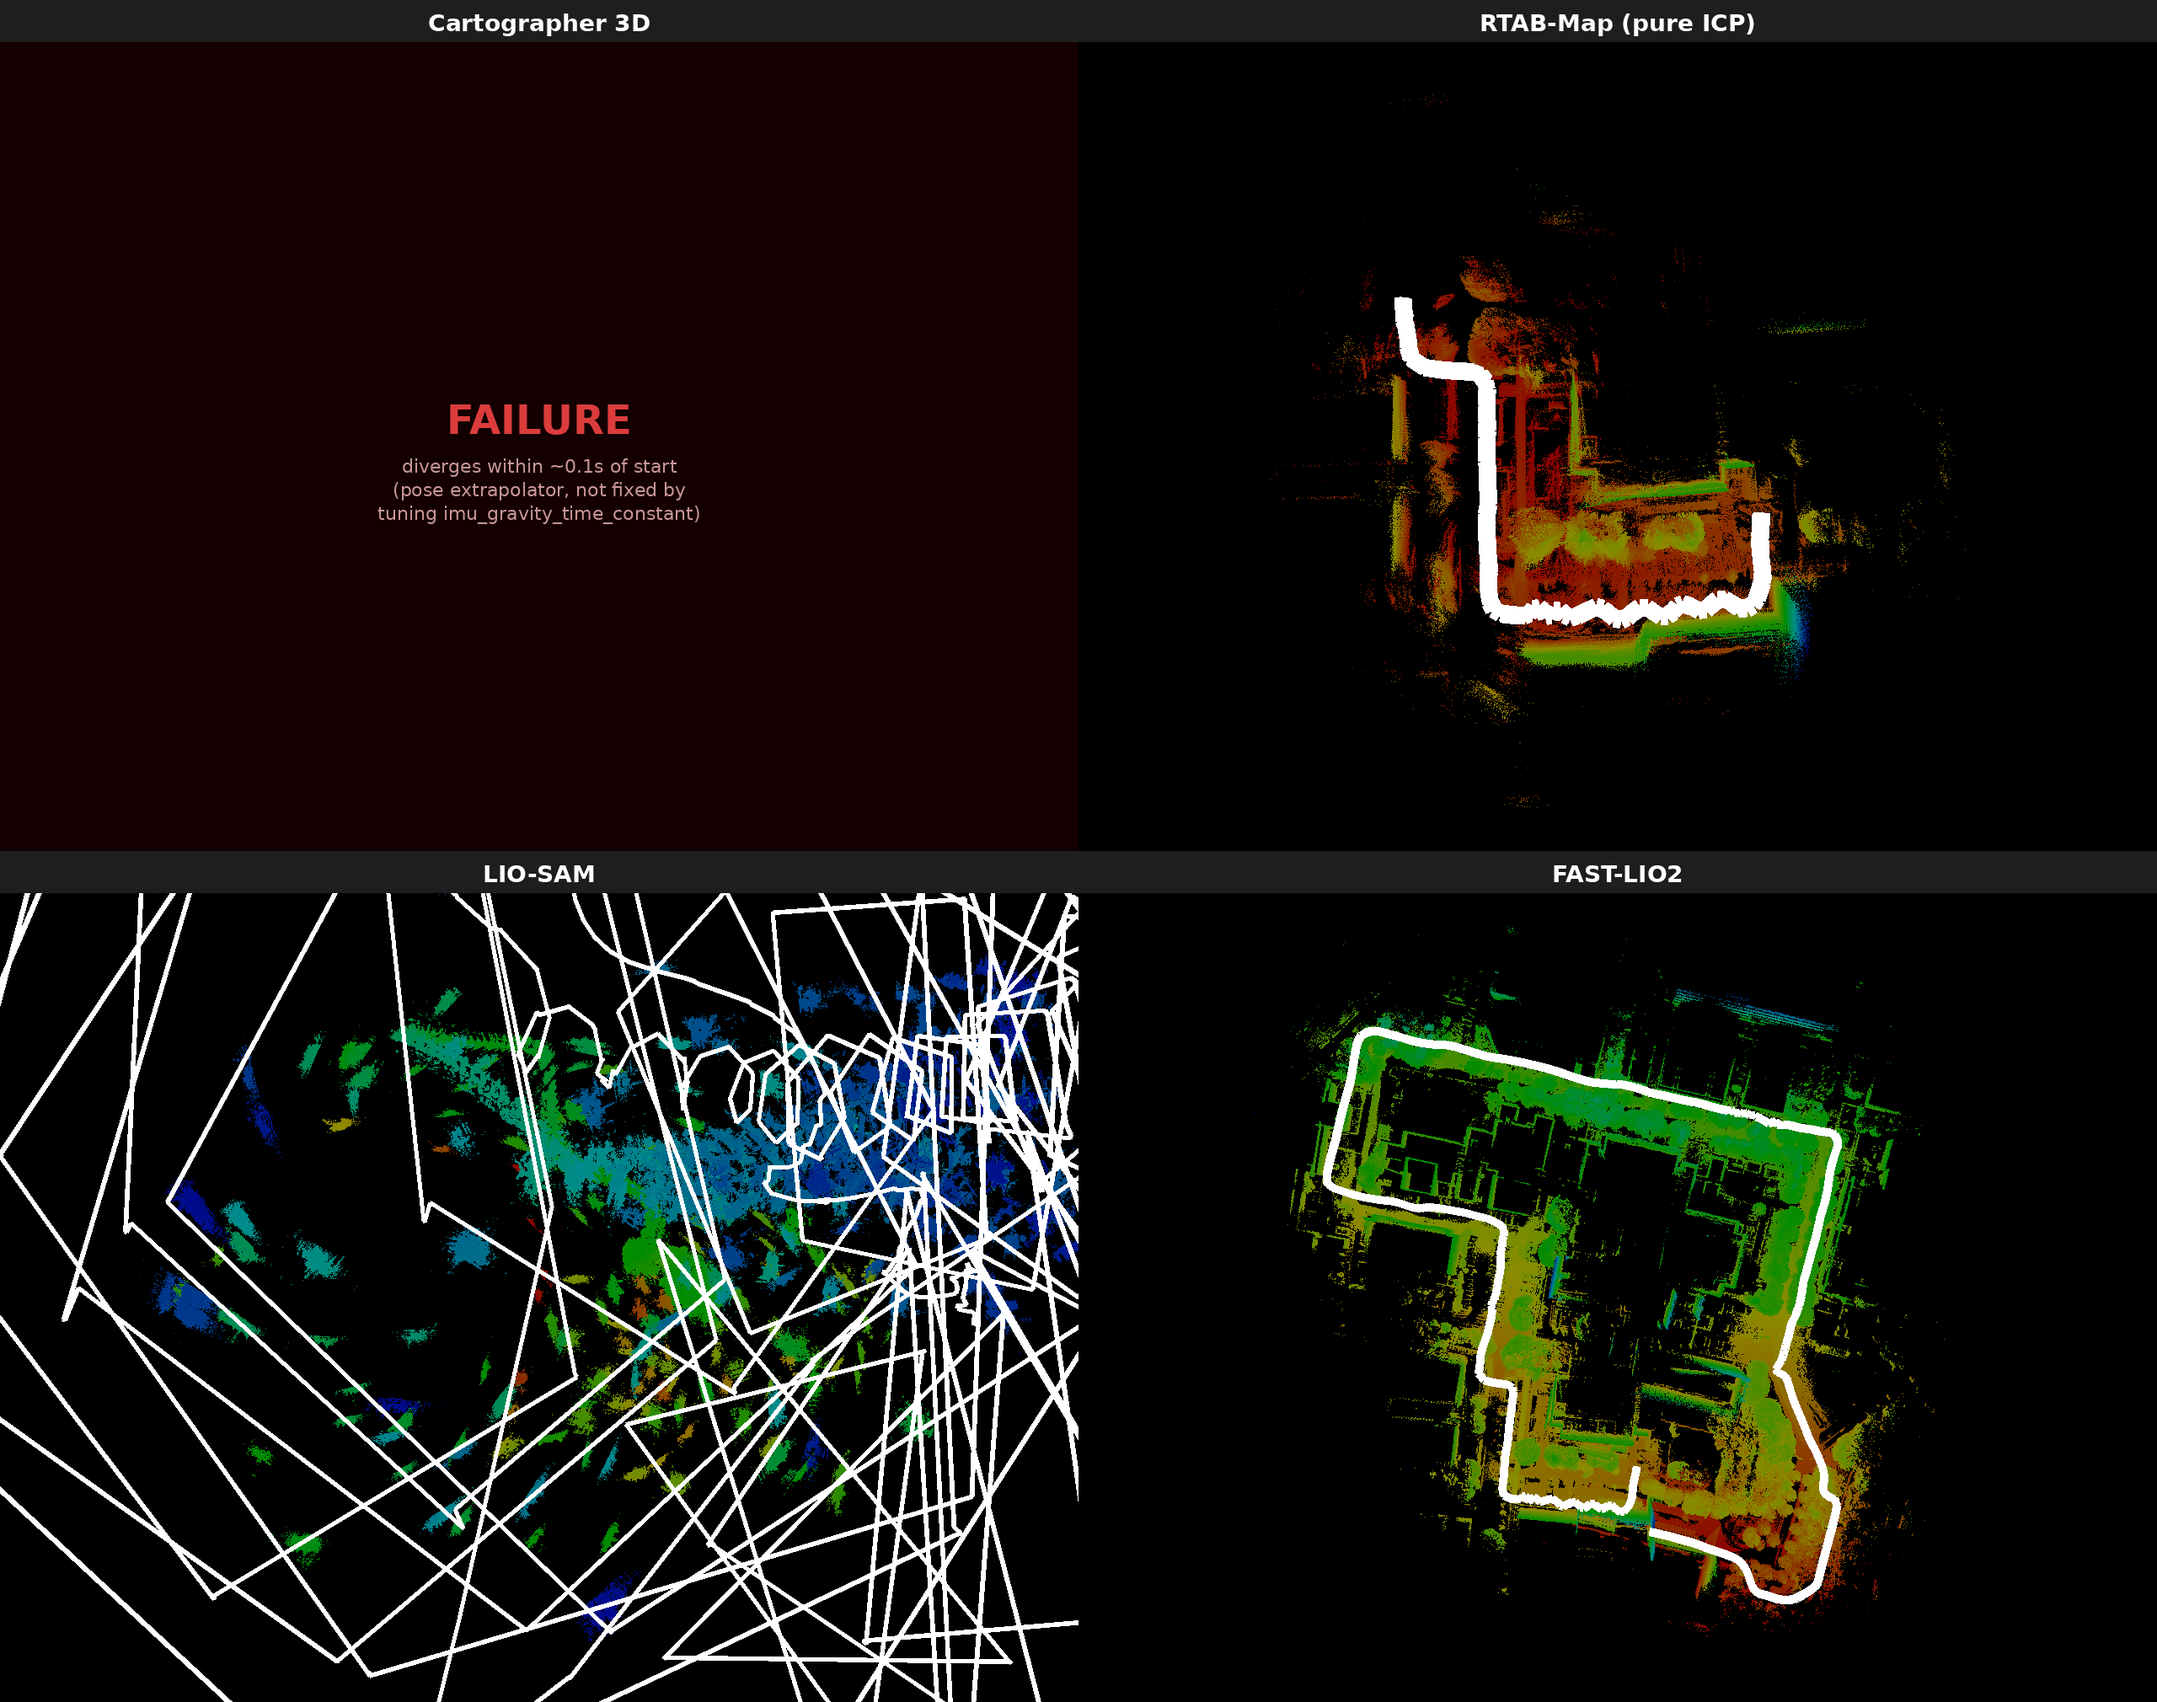
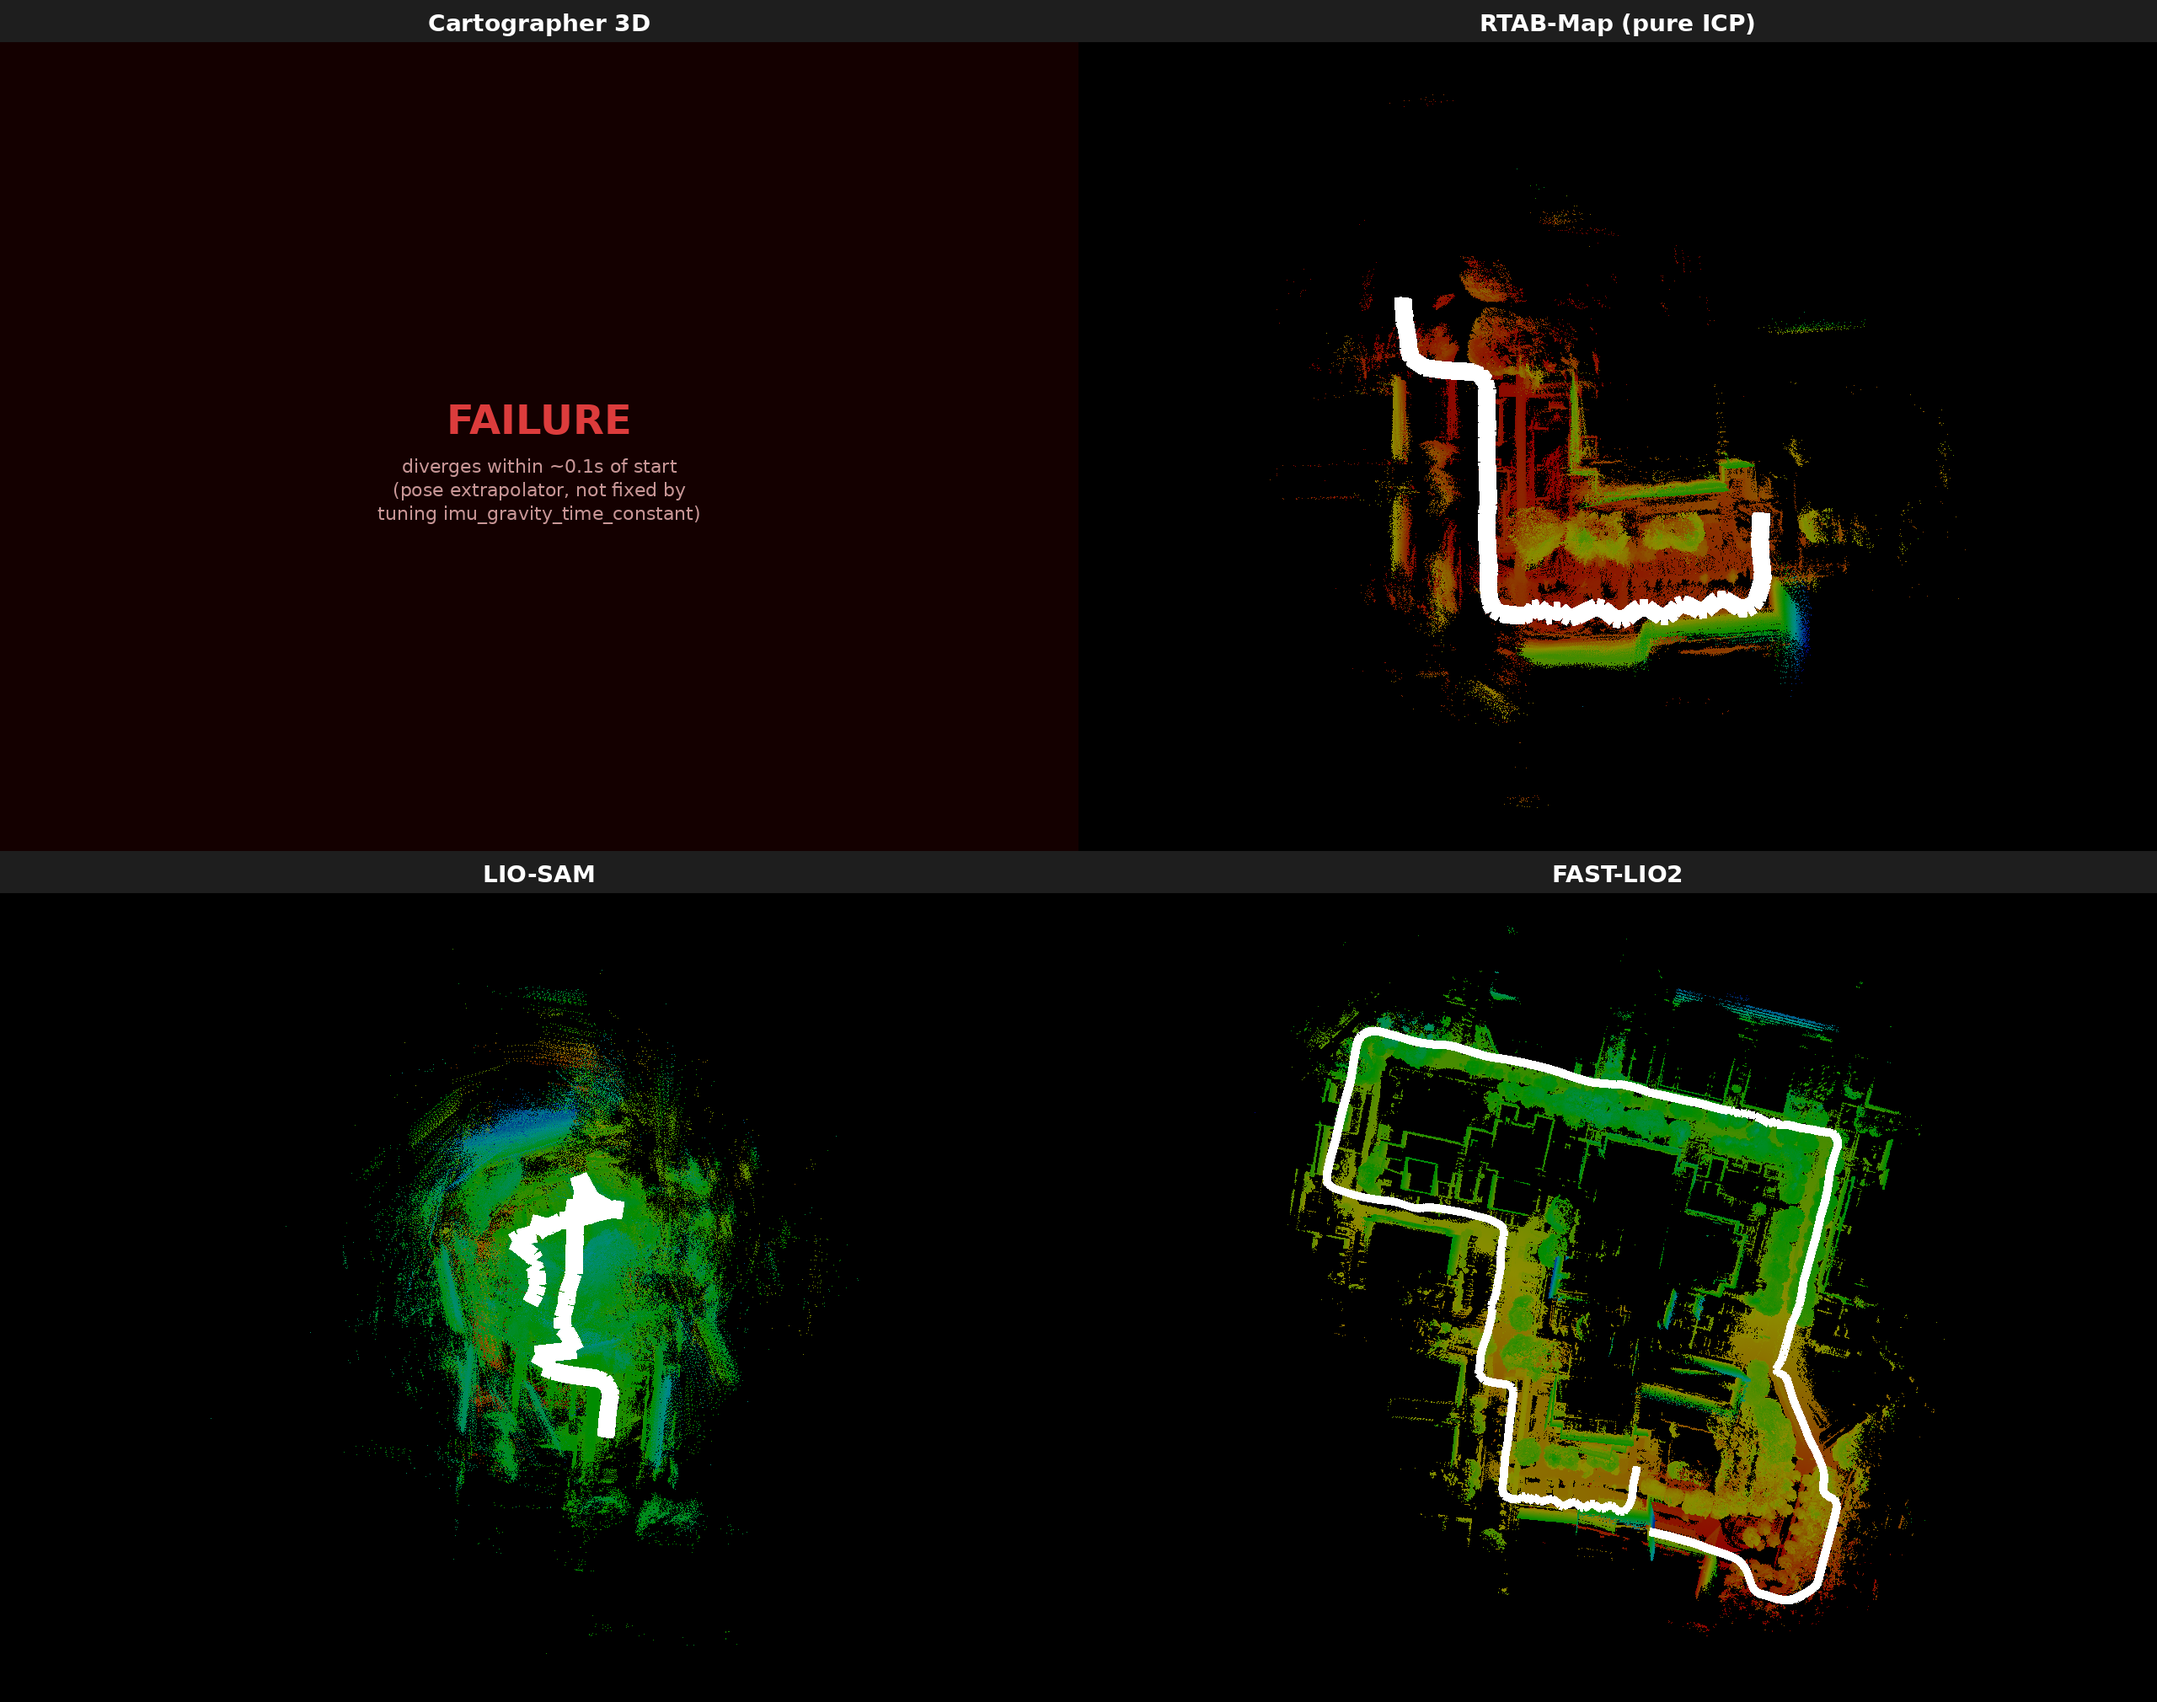
Show LIO-SAM's pre-divergence map instead of the full chaotic trajectory
Same treatment as RTAB-Map: crop to the poses before it lost tracking
(first 285/1386, ~69s/204m) rather than showing the escalating garbage
afterward, which was unreadable and buried the part that's actually
worth looking at.

diff --git a/README.md b/README.md
@@ -27,7 +27,7 @@
 
 **這次最有意思的發現**:RTAB-Map 的 ATE 數字(0.944m)比 FAST-LIO2(5.228m)漂亮,但那是因為它只成功追蹤了 17% 的路徑就停滯,LIO-SAM 也是同樣的模式(前 20% 正確、之後完全發散)——都不是「更準」,是「提早放棄/失去追蹤」。單看 ATE 數字會誤導,必須同時看軌跡覆蓋率才能公平比較。**四套系統裡只有 FAST-LIO2 完整跑完了整段路**:它沒有迴環偵測,累積誤差確實最大,但也因此不受「因子圖被污染後回不去」「ICP 找不到配對就整段卡住」這類問題影響,是這次測試最穩健的系統。
 
-![Mid360 四套系統比較圖(Cartographer 發散、LIO-SAM 前段正確後段發散、RTAB-Map 提早停止、FAST-LIO2 完整跑完)](docs/images/mid360/comparison_map_grid_mid360.png)
+![Mid360 四套系統比較圖(Cartographer 發散、RTAB-Map/LIO-SAM 圖中只畫發散/停止前成功追蹤的那一段、FAST-LIO2 完整跑完)](docs/images/mid360/comparison_map_grid_mid360.png)
 
 ## 目錄結構
 
